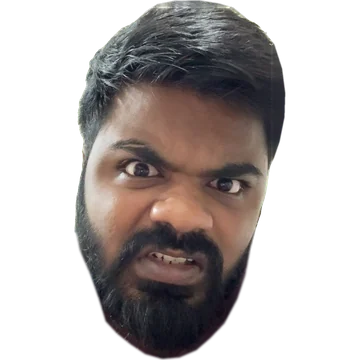
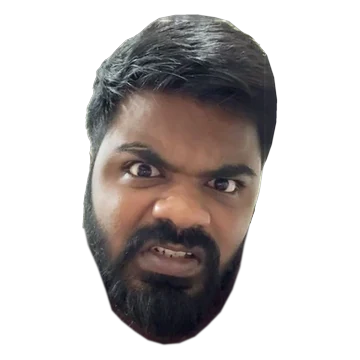
Fly maNOWj: whole head on the angry face, with room above the hair
The selfie cut off the top of the head; the hair was rebuilt in the previous
commit, but the crown still touched the top edge of the picture (13 px flat).
The picture now keeps 14 px of space above the hair and below the beard, so
nothing is cut flat in the game or on the game-over card. Drawn 1.25x (was
1.15x) and the card image is a little wider, so the head looks the same size.

Checked in headless Chrome at 390x844: crash frame, game-over card, close-up.

Claude-Session: https://claude.ai/code/session_01L7nivjwpKuA3UjJRBHJqnq

Changed region(s): [[0.1833, 0.0, 0.7944, 1.0]]

diff --git a/src/features/play/games/fly/FlyManoj.tsx b/src/features/play/games/fly/FlyManoj.tsx
@@ -209,8 +209,11 @@ function drawFlyer(ctx: CanvasRenderingContext2D, s: FlyState, face: HTMLImageEl
   ctx.translate(FLYER_X, s.y);
   ctx.rotate(tilt);
   if (img) {
-    // A touch bigger when angry, so the change reads at a glance.
-    const drawn = crashed ? size * 1.15 : size;
+    // A touch bigger when angry, so the change reads at a glance. The angry
+    // picture keeps a margin above the hair and below the beard (so the head
+    // is never cut flat by its own edge), hence 1.25 for a head about 15%
+    // taller than the flying one.
+    const drawn = crashed ? size * 1.25 : size;
     ctx.drawImage(img, -drawn / 2, -drawn / 2, drawn, drawn);
   } else {
     ctx.fillStyle = "#6d5bff";

diff --git a/src/features/play/games/fly/FlyManoj.css b/src/features/play/games/fly/FlyManoj.css
@@ -99,7 +99,7 @@
 
 /* The angry face on the game-over card: pops in with a short shake. */
 .fly__over-face {
-  width: clamp(96px, 30vw, 136px);
+  width: clamp(104px, 32vw, 148px);
   height: auto;
   aspect-ratio: 1;
   object-fit: contain;
@@ -126,7 +126,7 @@
    shrinks rather than pushing the buttons off it. */
 @media (max-height: 520px) {
   .fly__over-face {
-    width: 72px;
+    width: 78px;
   }
 }
 
